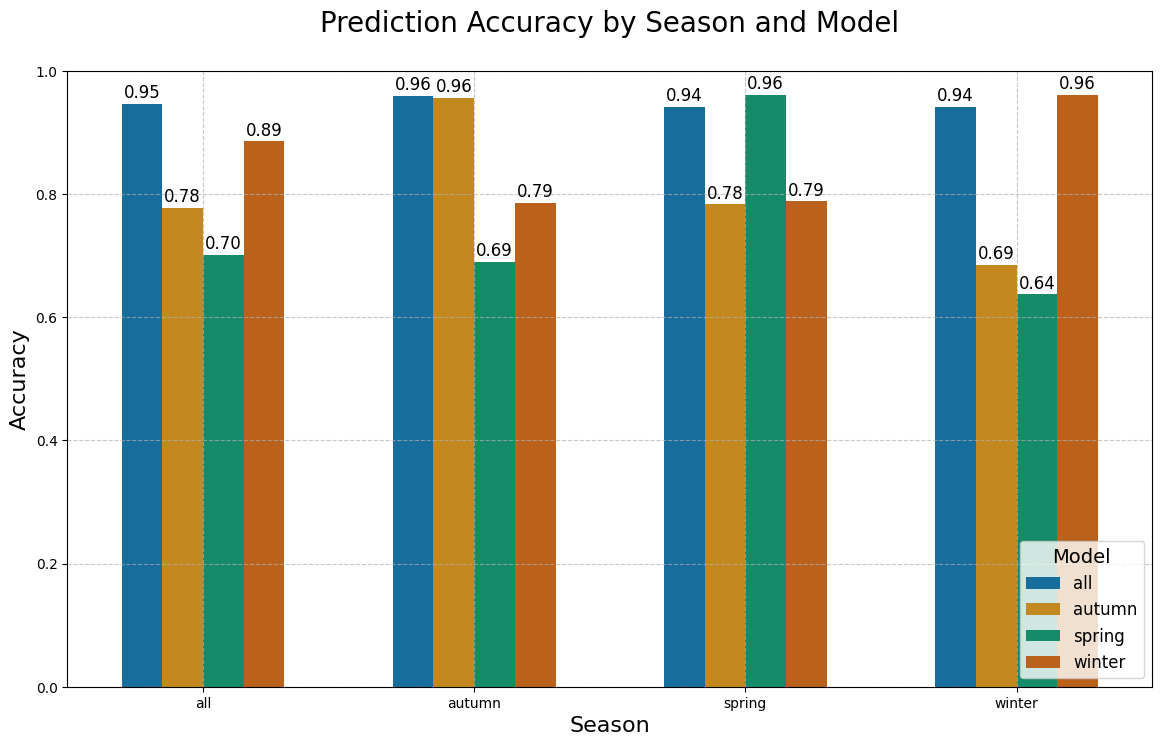
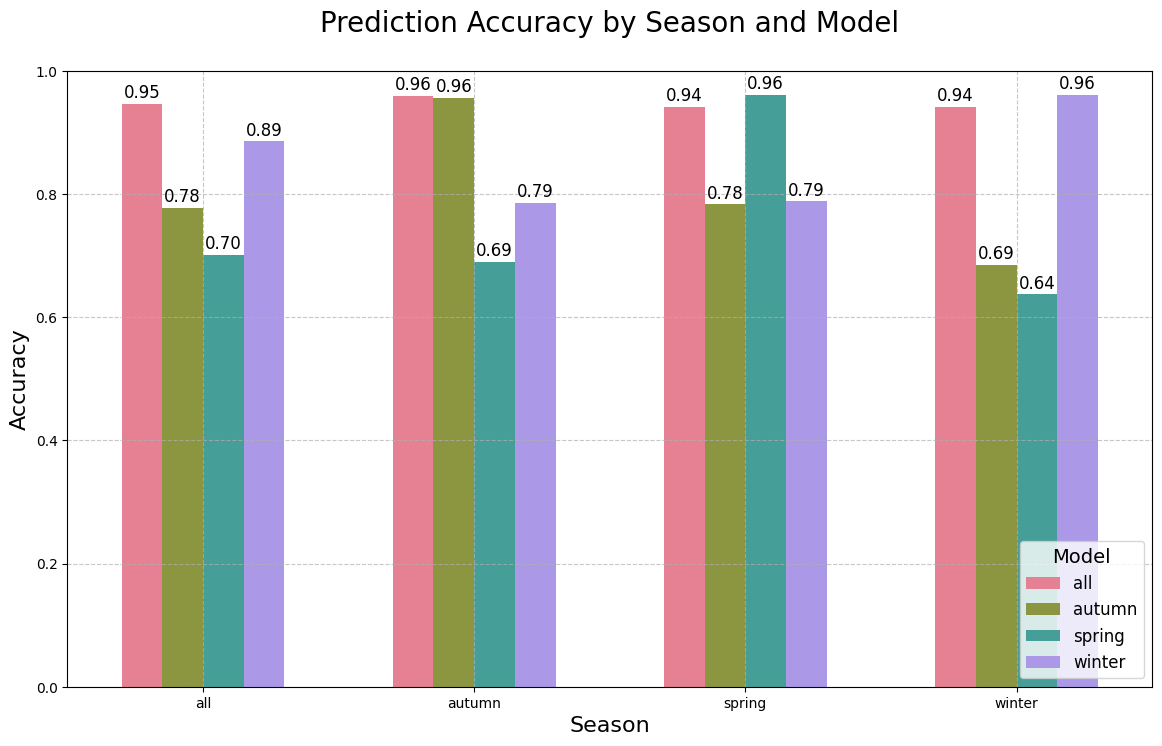
updates

diff --git a/seasonal_plot.py b/seasonal_plot.py
@@ -2,6 +2,7 @@ import pandas as pd
 import matplotlib.pyplot as plt
 import seaborn as sns
 import glob
+from sklearn.metrics import f1_score
 
 # File paths
 file_paths = glob.glob('csvs/*_pred_*_model.csv')
@@ -30,14 +31,20 @@ df = pd.concat(dataframes, ignore_index=True)
 print(df.head())  # Inspect the combined DataFrame
 
 # Calculate the accuracy for each model and season
-accuracy_df = df.groupby(['model', 'season']).apply(lambda x: (x['label'] == x['pred']).mean()).reset_index(
-    name='accuracy')
+accuracy_df = df.groupby(['model', 'season']).apply(lambda x: pd.Series({
+        'accuracy': (x['label'] == x['pred']).mean(),
+        'f1_score': f1_score(x['label'], x['pred']) }))
+
 print(accuracy_df)  # Inspect the accuracy DataFrame
 
-# Set up the plot with a larger font size and colour-blind friendly palette
+# Set up a custom color palette using 'skyblue' and 'lightcoral'
+custom_palette = ['skyblue', 'lightcoral']
+
+# Set up the plot with a larger font size and the custom color palette
 plt.figure(figsize=(14, 8))
-sns.set_palette("colorblind")  # Ensure this line is in place
-sns.barplot(data=accuracy_df, x='season', y='accuracy', hue='model', width=0.6)  # Adjusted width for spacing
+sns.set_palette(custom_palette)  # Use the custom palette
+
+sns.barplot(data=accuracy_df.reset_index(), x='season', y='accuracy', hue='model', width=0.6)
 
 # Add the title and labels with larger font sizes
 plt.title('Prediction Accuracy by Season and Model', fontsize=20, y=1.05)  # Moved the title further up
@@ -54,8 +61,7 @@ plt.legend(title='Model', fontsize=12, title_fontsize=14, loc='lower right')
 # Annotate the bars with accuracy values, ensuring consistent decimal places
 for p in plt.gca().patches:
     height = p.get_height()
-    # Only annotate if height is greater than a very small threshold
-    if height > 0.001:
+    if height > 0.001:  # Only annotate if height is greater than a very small threshold
         plt.gca().annotate(f'{height:.2f}', (p.get_x() + p.get_width() / 2., height),
                            ha='center', va='center', fontsize=12, color='black', xytext=(0, 8),
                            textcoords='offset points')

diff --git a/seasonal_data_split.py b/seasonal_data_split.py
@@ -84,16 +84,6 @@ spring_data = df_images[df_images['season'] == 'Spring']
 summer_data = df_images[df_images['season'] == 'Summer']
 autumn_data = df_images[df_images['season'] == 'Autumn']
 
-# Plotting histogram and saving the figure
-plt.figure(figsize=(12, 6))
-df_images['date'].hist(bins=50, edgecolor='black')
-plt.xlabel('Date')
-plt.ylabel('Number of Images')
-plt.title('Histogram of Image Count by Date')
-plt.xticks(rotation=45)
-plt.tight_layout()
-plt.savefig(os.path.join(script_dir, 'plots/data_dates.png'))
-plt.show()
 
 # Define top sites
 """top_sites = [
@@ -161,3 +151,32 @@ winter_train, winter_val, winter_train_labels, winter_val_labels = train_val_spl
                                                                                    winter_train_val_labels)
 spring_train, spring_val, spring_train_labels, spring_val_labels = train_val_split(spring_train_val,
                                                                                    spring_train_val_labels)
+
+
+# Combine the balanced datasets for all seasons after balancing
+balanced_data = pd.concat([balanced_winter, balanced_spring, balanced_summer, balanced_autumn])
+bins = 50
+
+# Plot the original histogram (before balancing)
+plt.figure(figsize=(12, 6))
+df_images['date'].hist(bins=bins, edgecolor='black', color='skyblue')
+plt.xlabel('Date', fontsize=12)
+plt.ylabel('Number of Images', fontsize=12)
+plt.title('Histogram of Image Count by Date (Before Balancing)', fontsize=14)
+plt.xticks(rotation=45)
+plt.grid(True, linestyle='--', alpha=0.6)
+plt.tight_layout()
+plt.savefig(os.path.join(script_dir, 'plots/data_dates_before_balancing.png'))
+plt.show()
+
+# Plot the second histogram (after balancing)
+plt.figure(figsize=(12, 6))
+balanced_data['date'].hist(bins=bins, edgecolor='black', color='lightcoral')
+plt.xlabel('Date', fontsize=12)
+plt.ylabel('Number of Images', fontsize=12)
+plt.title('Histogram of Image Count by Date (After Balancing)', fontsize=14)
+plt.xticks(rotation=45)
+plt.grid(True, linestyle='--', alpha=0.6)
+plt.tight_layout()
+plt.savefig(os.path.join(script_dir, 'plots/data_dates_after_balancing.png'))
+plt.show()

diff --git a/eda.py b/eda.py
@@ -77,8 +77,11 @@ print(missing_seasons[['site', 'file_path']])
 # Group by season and label, then count the images
 season_summary = df_images.groupby(['season', 'label']).size().unstack(fill_value=0)
 
+# Define the color palette to match 'skyblue' for blocked, 'lightcoral' for clear, and add a third for 'other'
+custom_colors = ['lightcoral', 'lightgreen', 'skyblue']
+
 # Plotting the bar plot with stacked sections for each label
-season_summary.plot(kind='bar', stacked=True, figsize=(10, 7), color=['blue', 'green', 'red'])
+season_summary.plot(kind='bar', stacked=True, figsize=(10, 7), color=custom_colors)
 plt.title('Distribution of Blocked, Clear, and Other Images by Season')
 plt.xlabel('Season')
 plt.ylabel('Number of Images')

diff --git a/train_seasonal.py b/train_seasonal.py
@@ -119,7 +119,7 @@ def train_model(model, dataloaders, criterion, optimizer, scheduler=None, num_ep
     return model, (train_losses, val_losses, train_accuracies, val_accuracies), best_train_acc, best_val_acc
 
 # Choose the season to train on
-season = 'winter'
+season = 'autumn'
 
 # Use a dictionary to map the season name to the corresponding data variable
 season_data_dict = {
